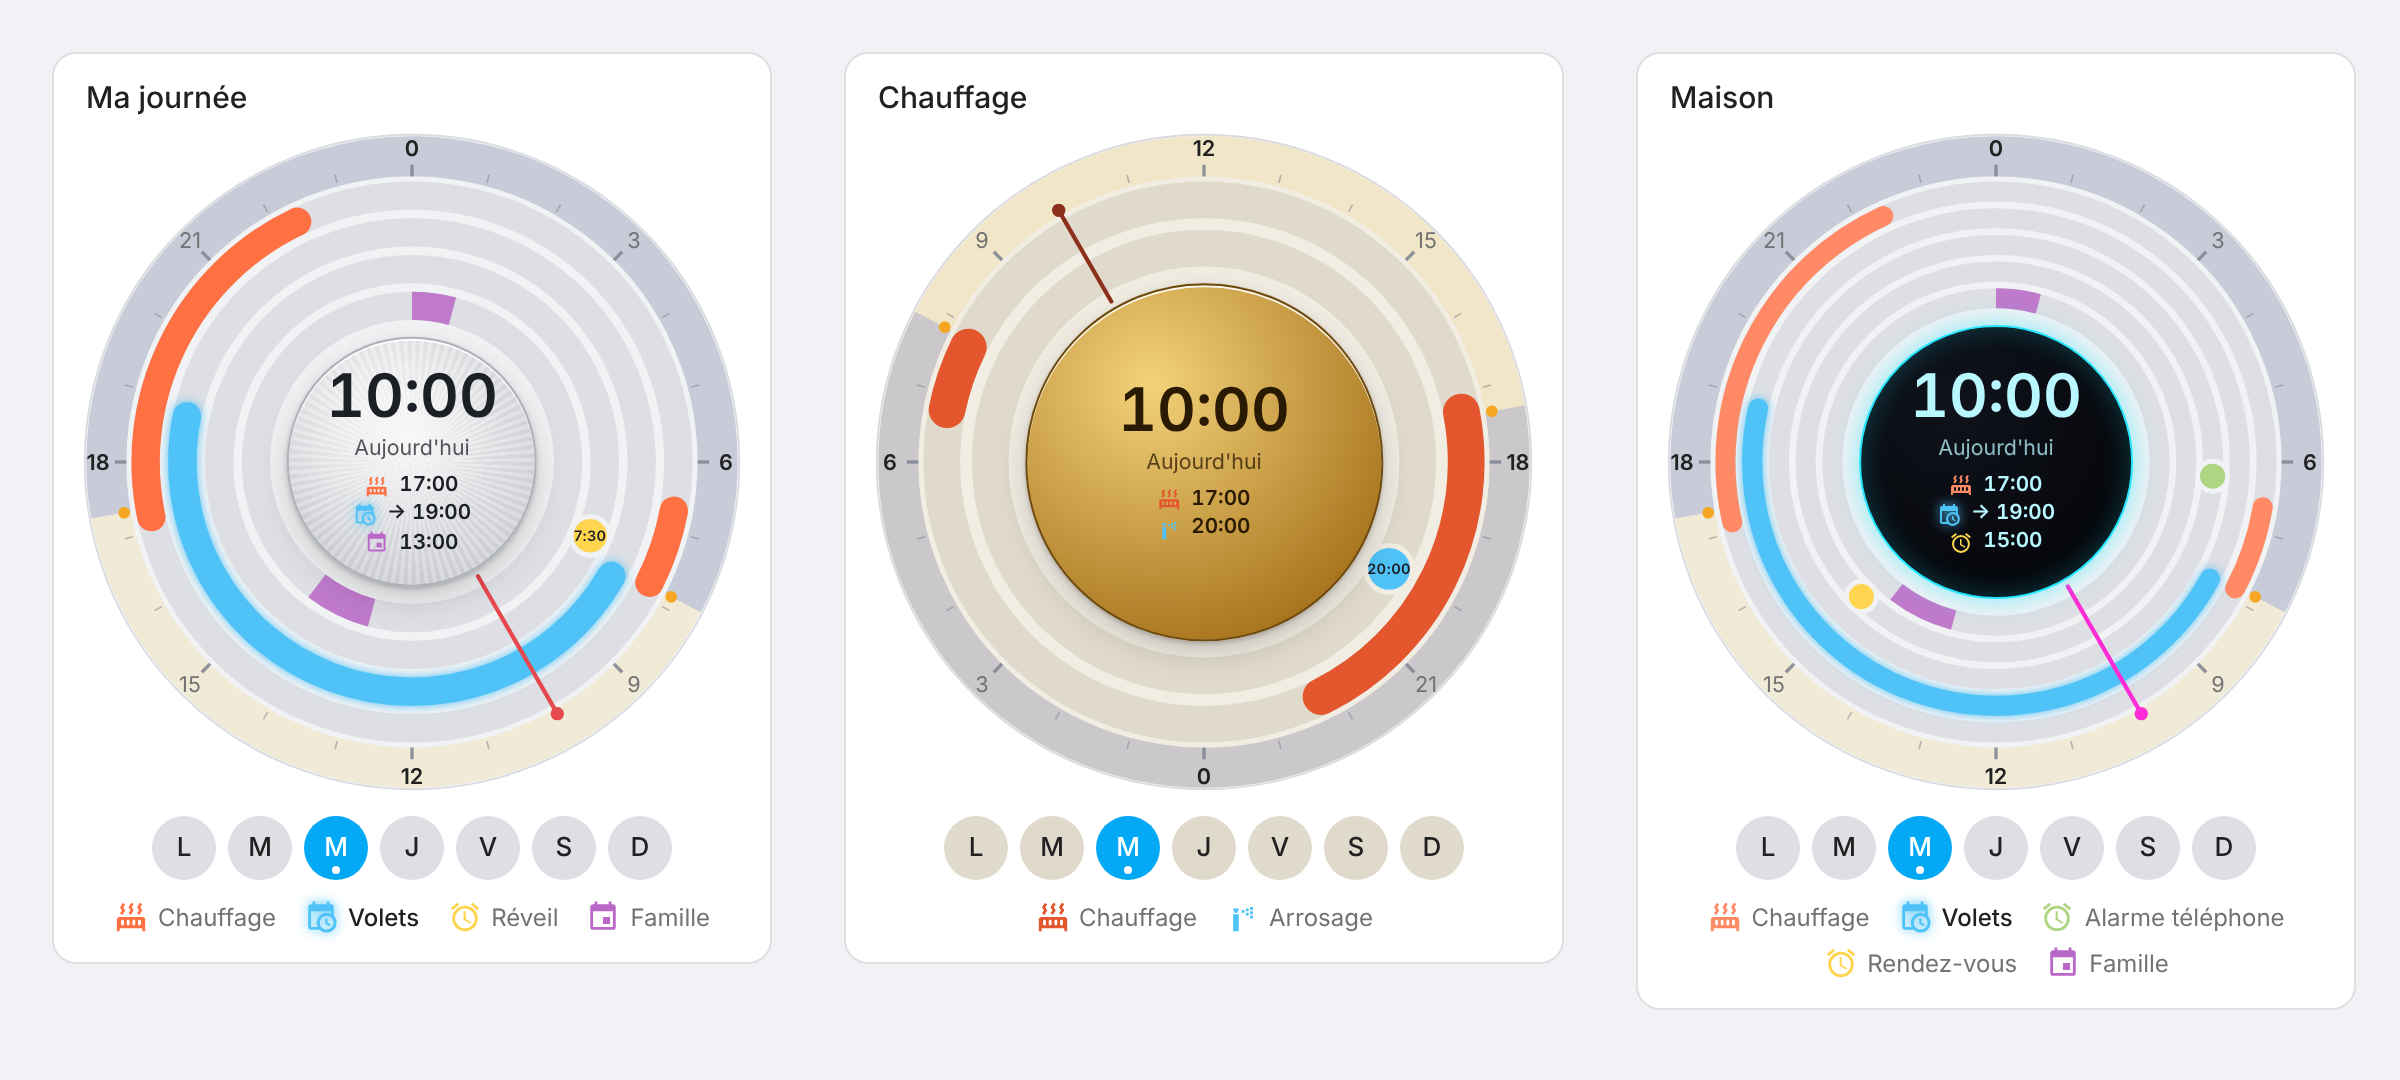
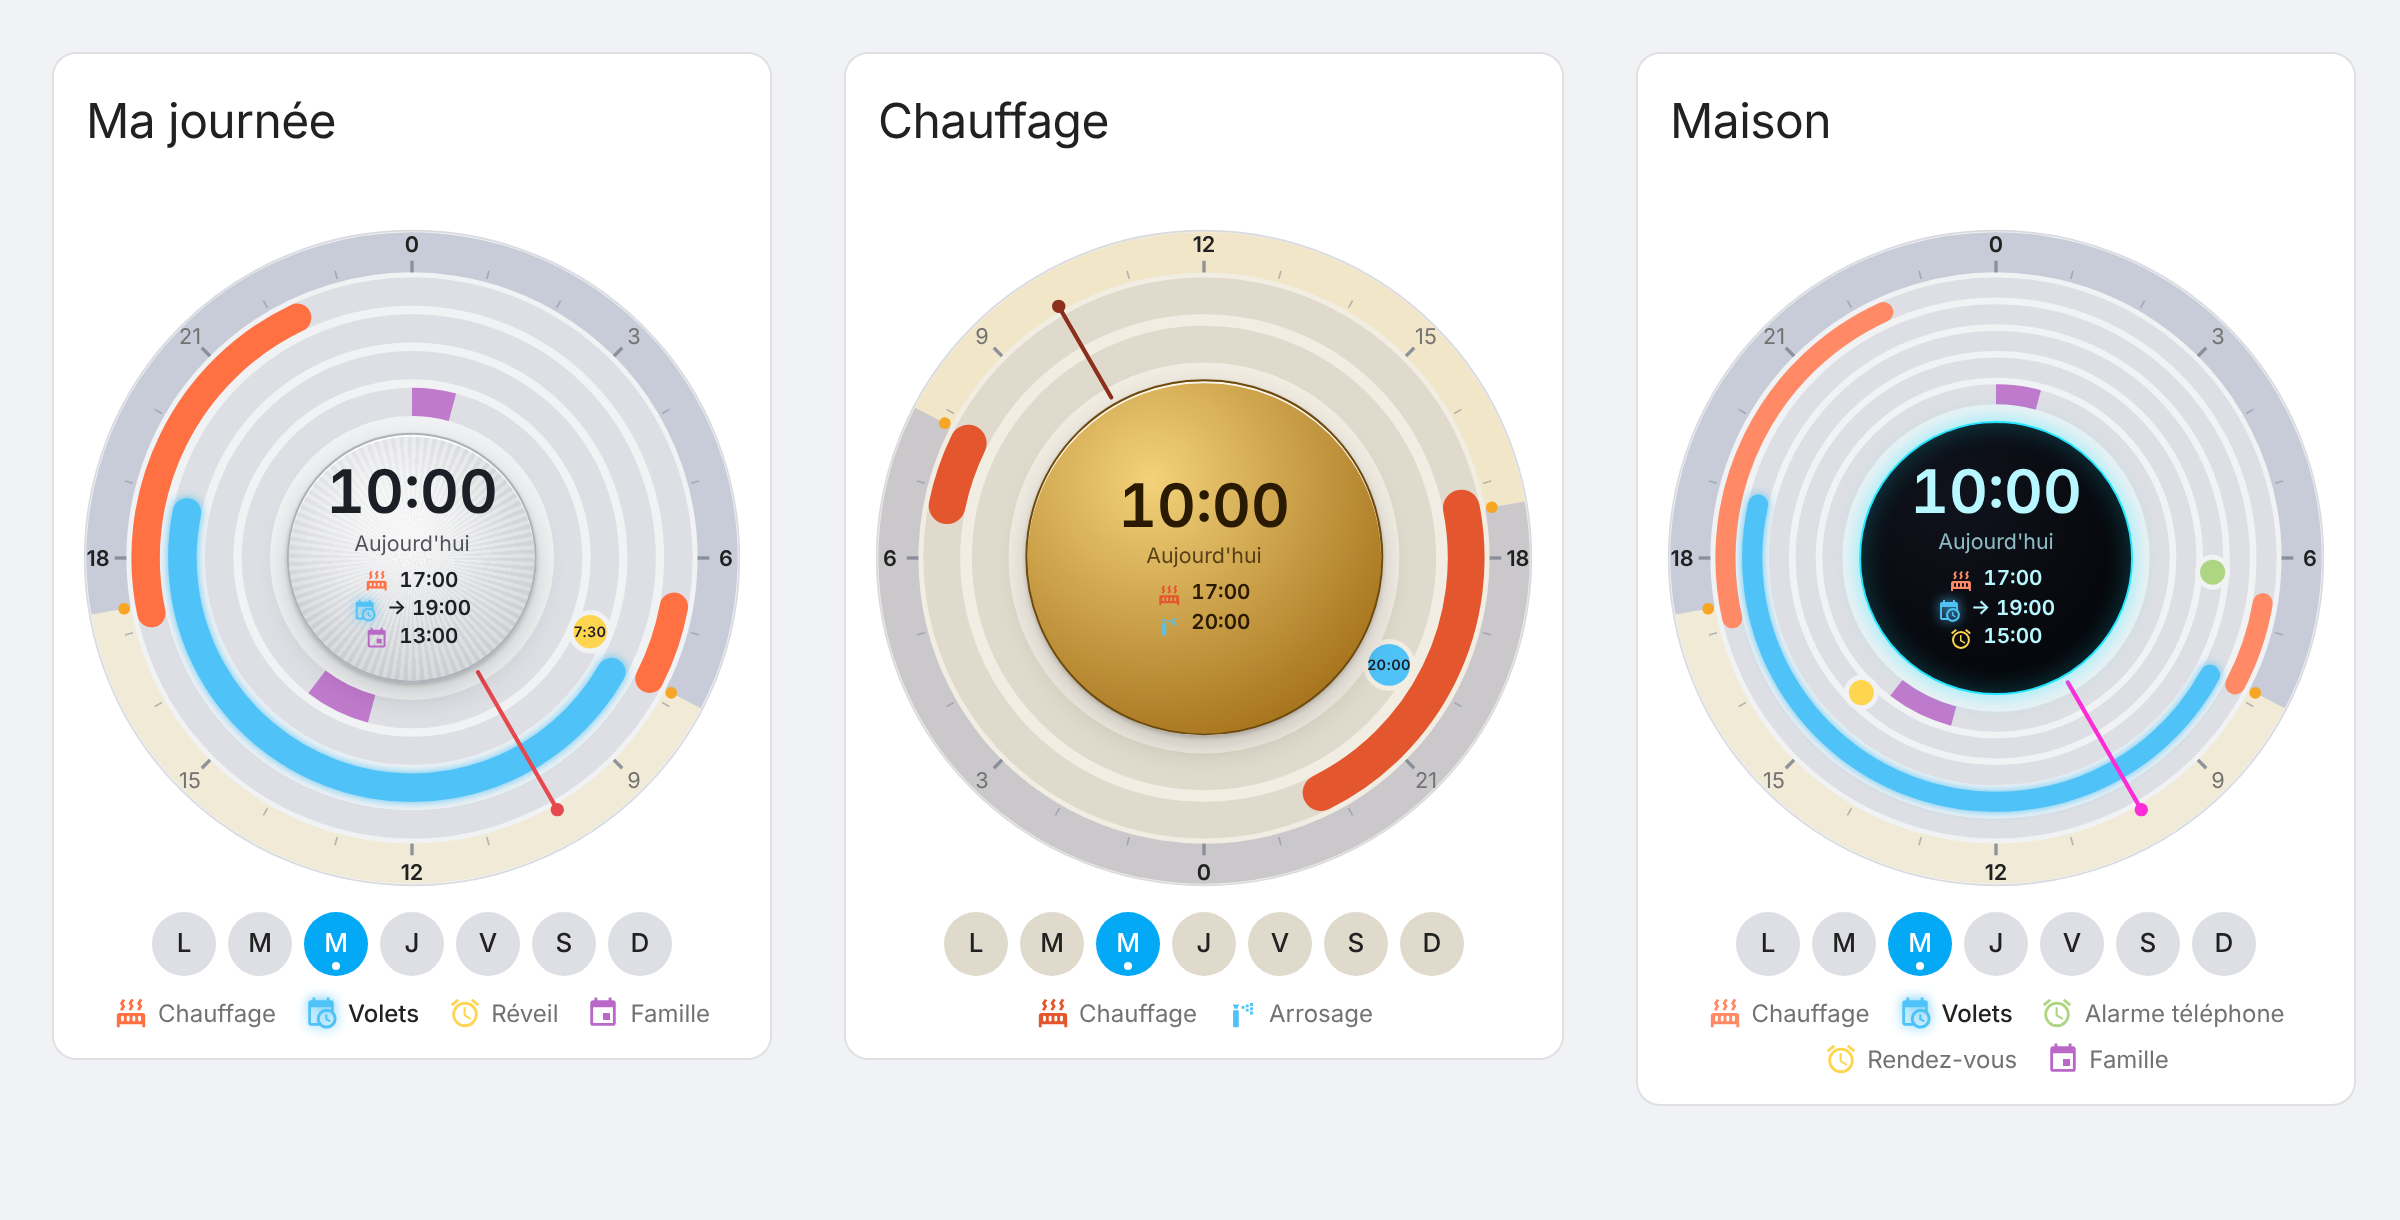
Version 1.2.1 : titre standard des cartes Home Assistant
Le nom de la carte passe par l'en-tête natif de ha-card (attribut header)
au lieu d'un bloc propre à la carte : même taille, marges et police que
les autres cartes, variables de thème --ha-card-header-* ; une ligne de
plus dans la grille. Faux ha-card du banc d'essai fidèle au vrai ; images
du README refaites. Tests : 102/102. CHANGELOG bilingue, package.json 1.2.1.

Claude-Session: https://claude.ai/code/session_01Ra8rTr1M1fMdFKC8tajoL3

diff --git a/tests/06-title.spec.js b/tests/06-title.spec.js
@@ -1,0 +1,43 @@
+// Titre de la carte : en-tête standard de Home Assistant (attribut « header » de ha-card)
+module.exports = async (browser, h) => {
+  const { check, group } = h;
+
+  group('Titre de la carte');
+  {
+    const t = await h.open(browser, h.card('a'));
+    const { page } = t;
+    const read = () => page.evaluate(() => {
+      const el = document.getElementById('a');
+      const card = el.shadowRoot.querySelector('ha-card');
+      const h1 = card.shadowRoot.querySelector('h1.card-header');
+      return {
+        header: card.hasAttribute('header') ? card.getAttribute('header') : null,
+        shown: !!h1 && h1.textContent === card.getAttribute('header'),
+        size: h1 ? getComputedStyle(h1).fontSize : null,
+        ownTitle: !!el.shadowRoot.querySelector('.title'),
+        rows: el.getGridOptions().rows, cardSize: el.getCardSize(),
+      };
+    });
+    await page.evaluate(() => window.mk('a', { layers: ['schedule.chauffage'] }));
+    const none = await read();
+    check('sans nom : pas de titre', none.header === null && !none.shown && none.rows === 7, none);
+    await page.evaluate(() => window.mk('a', { name: 'Ma journée', layers: ['schedule.chauffage'] }));
+    const on = await read();
+    check('avec un nom : titre standard de Home Assistant (en-tête de ha-card)', on.header === 'Ma journée' && on.shown && !on.ownTitle && on.size === '24px', on);
+    check('… une ligne de plus dans la grille', on.rows === 8 && on.cardSize === 8, on);
+    const themed = await page.evaluate(() => {
+      const el = document.getElementById('a');
+      el.style.setProperty('--ha-card-header-font-size', '18px');
+      const h1 = el.shadowRoot.querySelector('ha-card').shadowRoot.querySelector('h1.card-header');
+      const size = getComputedStyle(h1).fontSize;
+      el.style.removeProperty('--ha-card-header-font-size');
+      return size;
+    });
+    check('… le titre suit les variables du thème', themed === '18px', themed);
+    await page.evaluate(() => window.mk('a', { name: '<i>Planning & réveil</i>', layers: ['schedule.chauffage'] }));
+    const esc = await read();
+    check('nom affiché tel quel (pas de HTML interprété)', esc.header === '<i>Planning & réveil</i>' && esc.shown, esc);
+    check('aucune erreur JS', t.errors.length === 0, t.errors);
+    await t.close();
+  }
+};

diff --git a/dist/day-wheel-card.js b/dist/day-wheel-card.js
@@ -16,7 +16,7 @@
  *
  * Options :
  *   layers            1 à 6 anneaux, de l'extérieur vers l'intérieur : entity, name, color, icon
- *   name              titre de la carte
+ *   name              titre de la carte (en-tête standard de Home Assistant, comme les autres cartes)
  *   orientation       midnight_top (minuit en haut, défaut) | noon_top (midi en haut)
  *   snap              pas de réglage en minutes : 5 | 10 | 15 (défaut) | 30 | 60
  *   show_sun          true (défaut) : nuit grisée, lever et coucher du soleil
@@ -222,7 +222,6 @@
       --dwc-c-shadow: 0 0 12px rgb(34 230 255 / .55), inset 0 0 14px rgb(34 230 255 / .25); }
     .wrap.night-dim { filter: brightness(.9); }
 
-    .title { font-size: 15px; font-weight: 500; padding: 0 4px 6px; }
     .dial { position: relative; width: 100%; max-width: 420px; margin: 0 auto; aspect-ratio: 1 / 1; touch-action: none; user-select: none; -webkit-user-select: none; }
     .dial > svg { position: absolute; inset: 0; width: 100%; height: 100%; overflow: visible; }
     .dial > svg:focus { outline: none; }
@@ -377,8 +376,9 @@
       if (this._hass) this.hass = this._hass;
     }
 
-    getCardSize() { return 7; }
-    getGridOptions() { return { columns: 6, rows: 7, min_columns: 4, min_rows: 5 }; }
+    // Le titre (en-tête standard de ha-card) prend une ligne de plus dans la grille
+    getCardSize() { return 7 + (this._config && this._config.name ? 1 : 0); }
+    getGridOptions() { return { columns: 6, rows: 7 + (this._config && this._config.name ? 1 : 0), min_columns: 4, min_rows: 5 }; }
 
     connectedCallback() {
       clearInterval(this._tick);
@@ -620,9 +620,8 @@
       const c = this._config;
       this.shadowRoot.innerHTML = `
         <style>${STYLES}</style>
-        <ha-card>
+        <ha-card${c.name ? ` header="${esc(c.name)}"` : ''}>
           <div class="wrap skin-${this._skin()}">
-            ${c.name ? `<div class="title">${esc(c.name)}</div>` : ''}
             <div class="dial">
               <svg viewBox="0 0 400 400" role="img" aria-label="" tabindex="0">
                 <g class="g-face"></g><g class="g-rings"></g><g class="g-top"></g>

diff --git a/tests/harness.js b/tests/harness.js
@@ -86,7 +86,15 @@ customElements.define('ha-icon', class extends HTMLElement {
   }
 });
 customElements.define('ha-card', class extends HTMLElement {
-  constructor() { super(); this.attachShadow({ mode: 'open' }).innerHTML = '<style>:host{display:block;background:var(--ha-card-background,var(--card-background-color,#fff));border-radius:12px;border:1px solid var(--divider-color,#e0e0e0);color:var(--primary-text-color)}</style><slot></slot>'; }
+  // Comme le vrai ha-card : l'attribut « header » devient un titre <h1 class="card-header">
+  static get observedAttributes() { return ['header']; }
+  constructor() { super(); this.attachShadow({ mode: 'open' }); this.render(); }
+  attributeChangedCallback() { this.render(); }
+  render() {
+    const h = this.getAttribute('header');
+    const esc = (v) => v.replace(/[&<>"]/g, (c) => ({ '&': '&amp;', '<': '&lt;', '>': '&gt;', '"': '&quot;' })[c]);
+    this.shadowRoot.innerHTML = '<style>:host{display:block;background:var(--ha-card-background,var(--card-background-color,#fff));border-radius:12px;border:1px solid var(--divider-color,#e0e0e0);color:var(--primary-text-color)}.card-header{color:var(--ha-card-header-color,var(--primary-text-color));font-family:var(--ha-card-header-font-family,inherit);font-size:var(--ha-card-header-font-size,24px);letter-spacing:-.012em;line-height:1.2;padding:20px 16px 24px;font-weight:400;margin-block:0;display:block}</style>' + (h ? '<h1 class="card-header">' + esc(h) + '</h1>' : '') + '<slot></slot>';
+  }
 });
 const picker = () => class extends HTMLElement {
   set value(v) { this._v = v; } get value() { return this._v || ''; }

diff --git a/CHANGELOG.md b/CHANGELOG.md
@@ -4,6 +4,18 @@ Format inspiré de [Keep a Changelog](https://keepachangelog.com/fr/1.1.0/). Les
 
 *Based on [Keep a Changelog](https://keepachangelog.com/en/1.1.0/), following [semantic versioning](https://semver.org/). Each version is described in French, then in English.*
 
+## [1.2.1] — 2026-11-05
+
+### Modifié
+- **Titre de la carte** : le nom de la carte (`name`) utilise maintenant le **titre standard des cartes Home Assistant** (l'en-tête de la carte), au lieu d'un titre propre à la carte. Il a la même taille, les mêmes marges et la même police que les autres cartes du tableau de bord, et suit les variables du thème (`--ha-card-header-font-size`, `--ha-card-header-color`, `--ha-card-header-font-family`). Le titre est plus grand qu'avant : la carte demande une ligne de plus dans la grille.
+- 6 vérifications automatiques de plus (102 au total) ; images du README refaites.
+
+#### English
+
+##### Changed
+- **Card title**: the card name (`name`) now uses **Home Assistant's standard card title** (the card header) instead of a title of its own. It has the same size, spacing and font as the other cards on the dashboard, and follows the theme variables (`--ha-card-header-font-size`, `--ha-card-header-color`, `--ha-card-header-font-family`). The title is larger than before: the card asks for one more row in the grid.
+- 6 more automated checks (102 in total); README images redone.
+
 ## [1.2.0] — 2026-11-05
 
 ### Modifié
@@ -58,6 +70,7 @@ First public release.
 - Visual editor in French and English.
 - 78 automated checks in Chrome (GitHub Actions).
 
+[1.2.1]: https://github.com/benshoesweb/day-wheel-card/releases/tag/v1.2.1
 [1.2.0]: https://github.com/benshoesweb/day-wheel-card/releases/tag/v1.2.0
 [1.1.0]: https://github.com/benshoesweb/day-wheel-card/releases/tag/v1.1.0
 [1.0.0]: https://github.com/benshoesweb/day-wheel-card/releases/tag/v1.0.0

diff --git a/README.md b/README.md
@@ -82,7 +82,7 @@ layers:
 | Option | Valeurs | Défaut |
 |---|---|---|
 | `layers` | 1 à 6 anneaux : `entity`, `name` (sinon le nom affiché par Home Assistant), `color`, `icon` (ou simplement l'entity_id) | — |
-| `name` | titre de la carte | aucun |
+| `name` | titre de la carte, avec le titre standard des cartes Home Assistant (il suit le thème : `--ha-card-header-font-size`, `--ha-card-header-color`…) | aucun |
 | `orientation` | `midnight_top` (minuit en haut), `noon_top` (midi en haut) | `midnight_top` |
 | `snap` | pas de réglage en minutes : `5`, `10`, `15`, `30`, `60` | `15` |
 | `show_sun` | couronne jour / nuit, lever et coucher du soleil | `true` |
@@ -137,7 +137,7 @@ A 24-hour wheel for Home Assistant dashboards: your schedules, alarms, appointme
 ```bash
 npm ci
 npx playwright install chromium
-npm test          # 96 vérifications dans Chrome : affichage, glisser, créer, supprimer, droits, éditeur…
+npm test          # 102 vérifications dans Chrome : affichage, glisser, créer, supprimer, droits, éditeur…
 ```
 
 Les tests tournent aussi sur GitHub à chaque modification (workflow **Tests**). Historique : [CHANGELOG.md](CHANGELOG.md).
